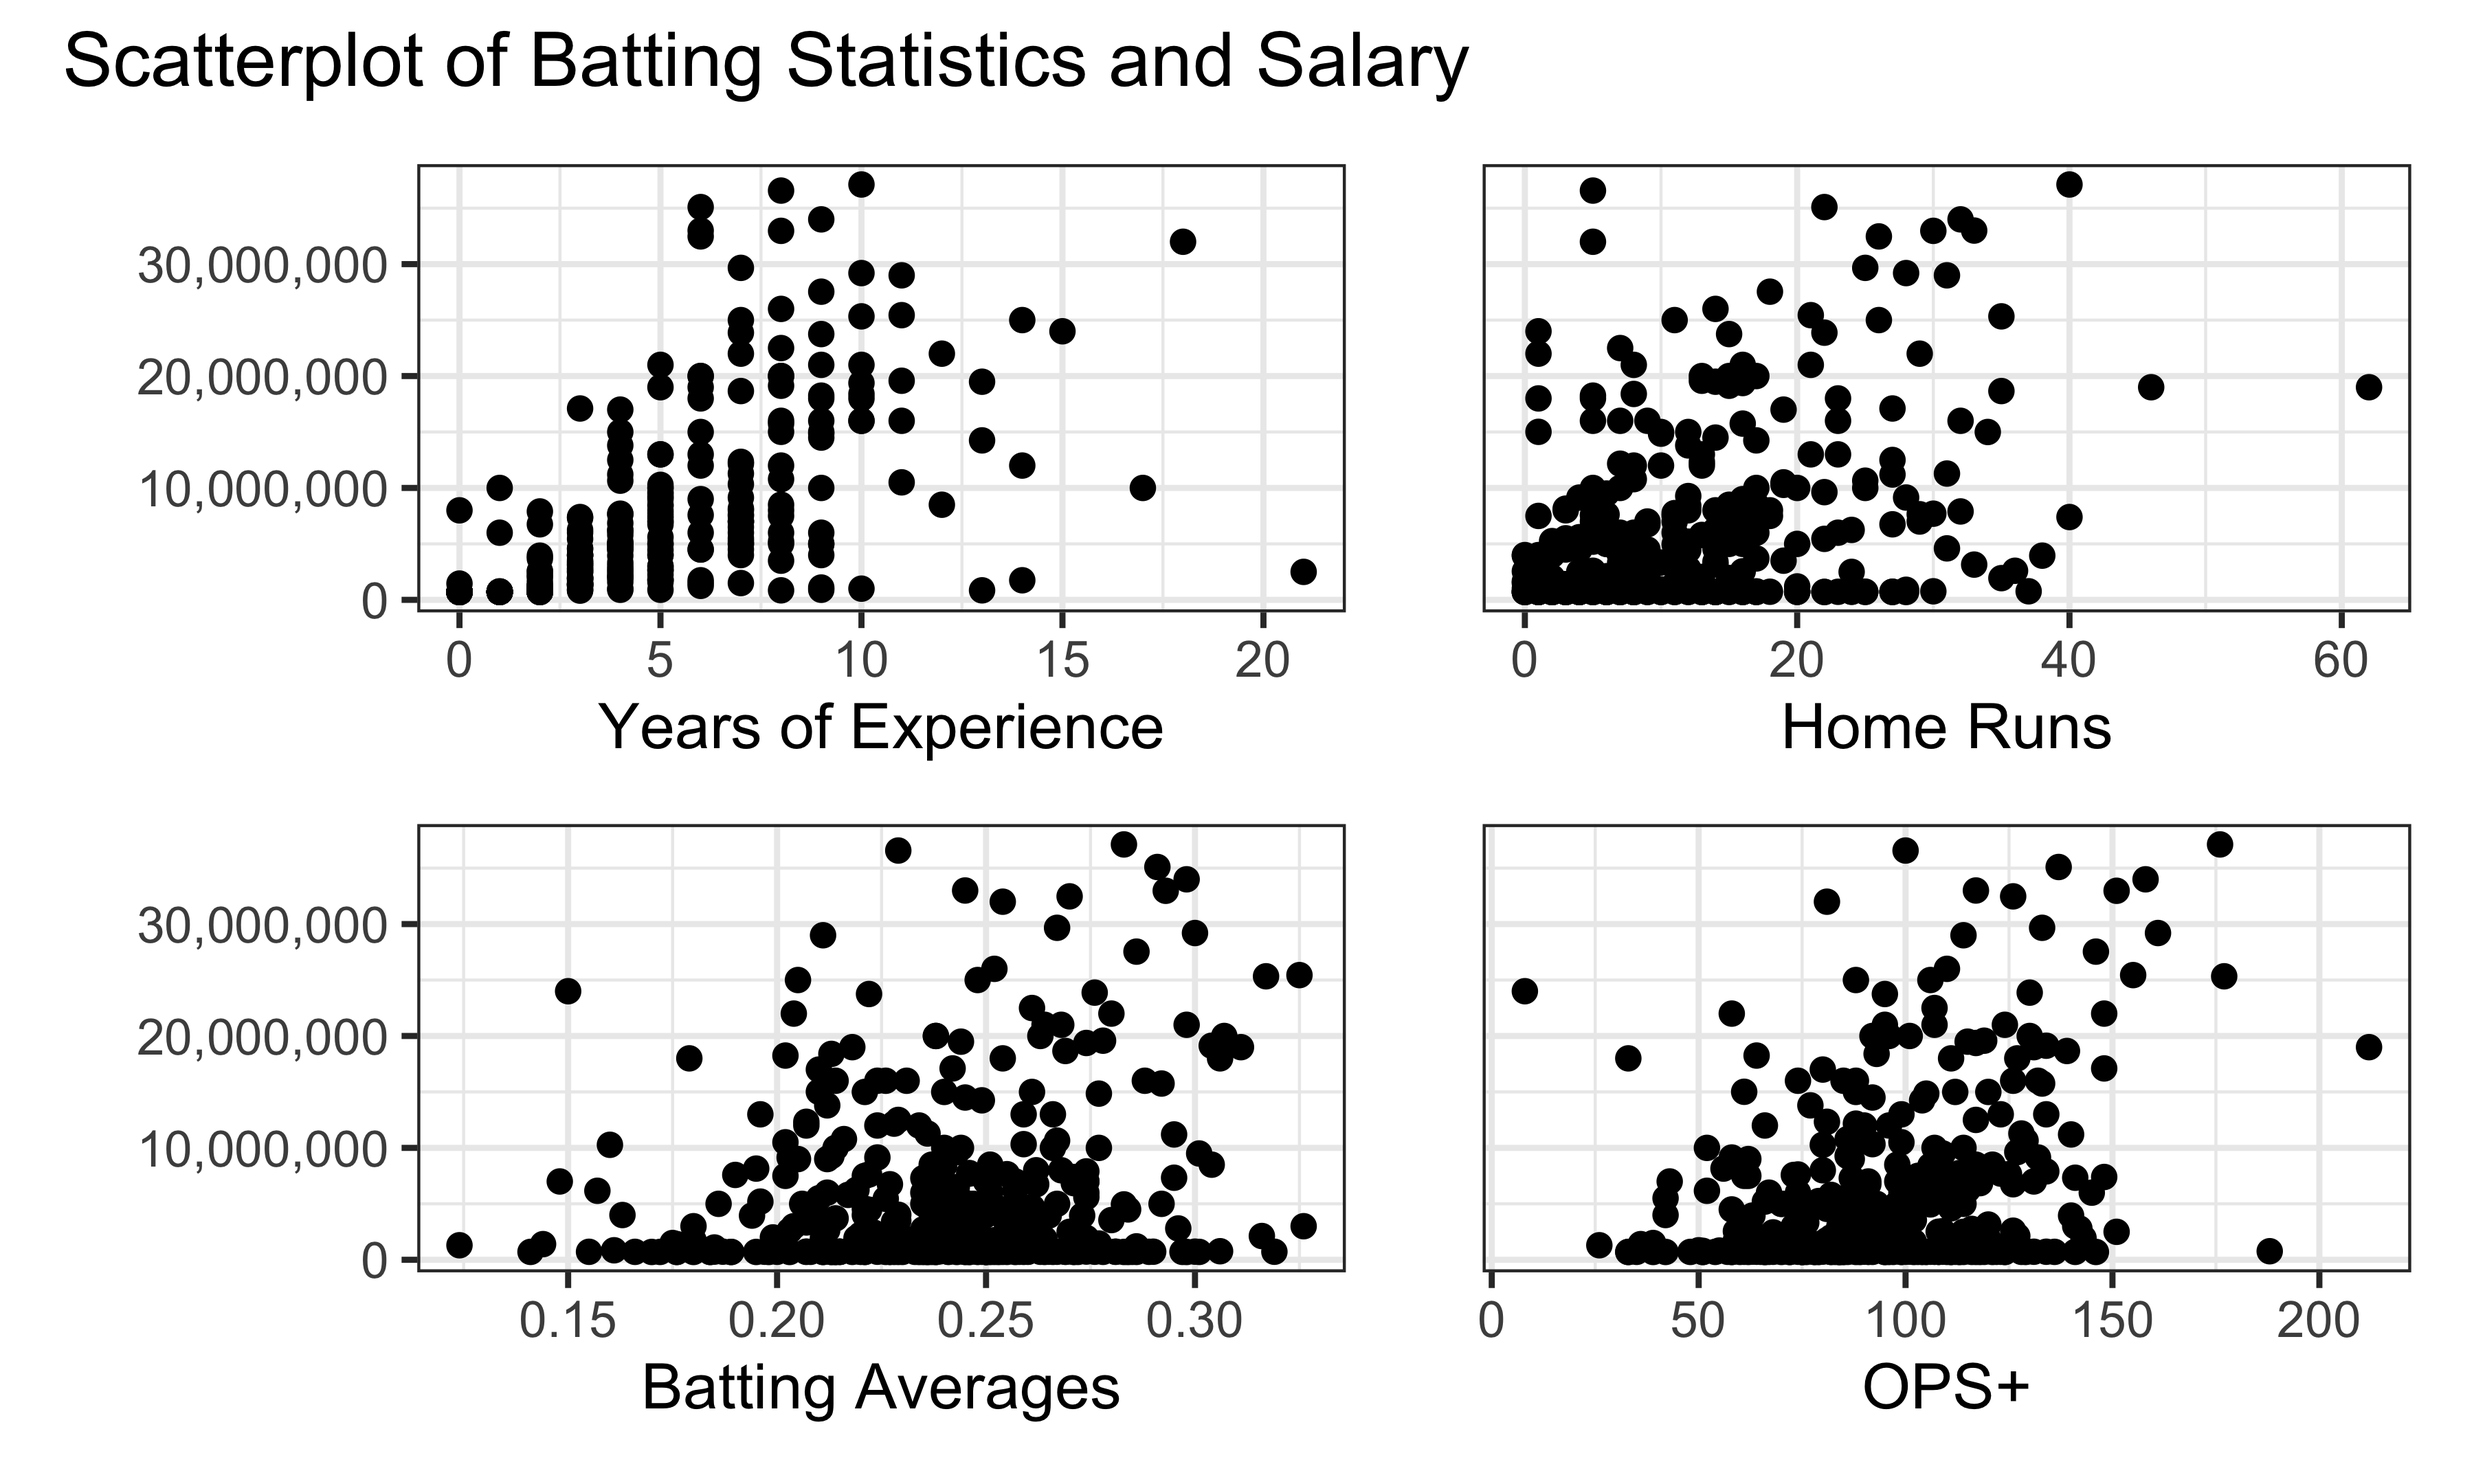
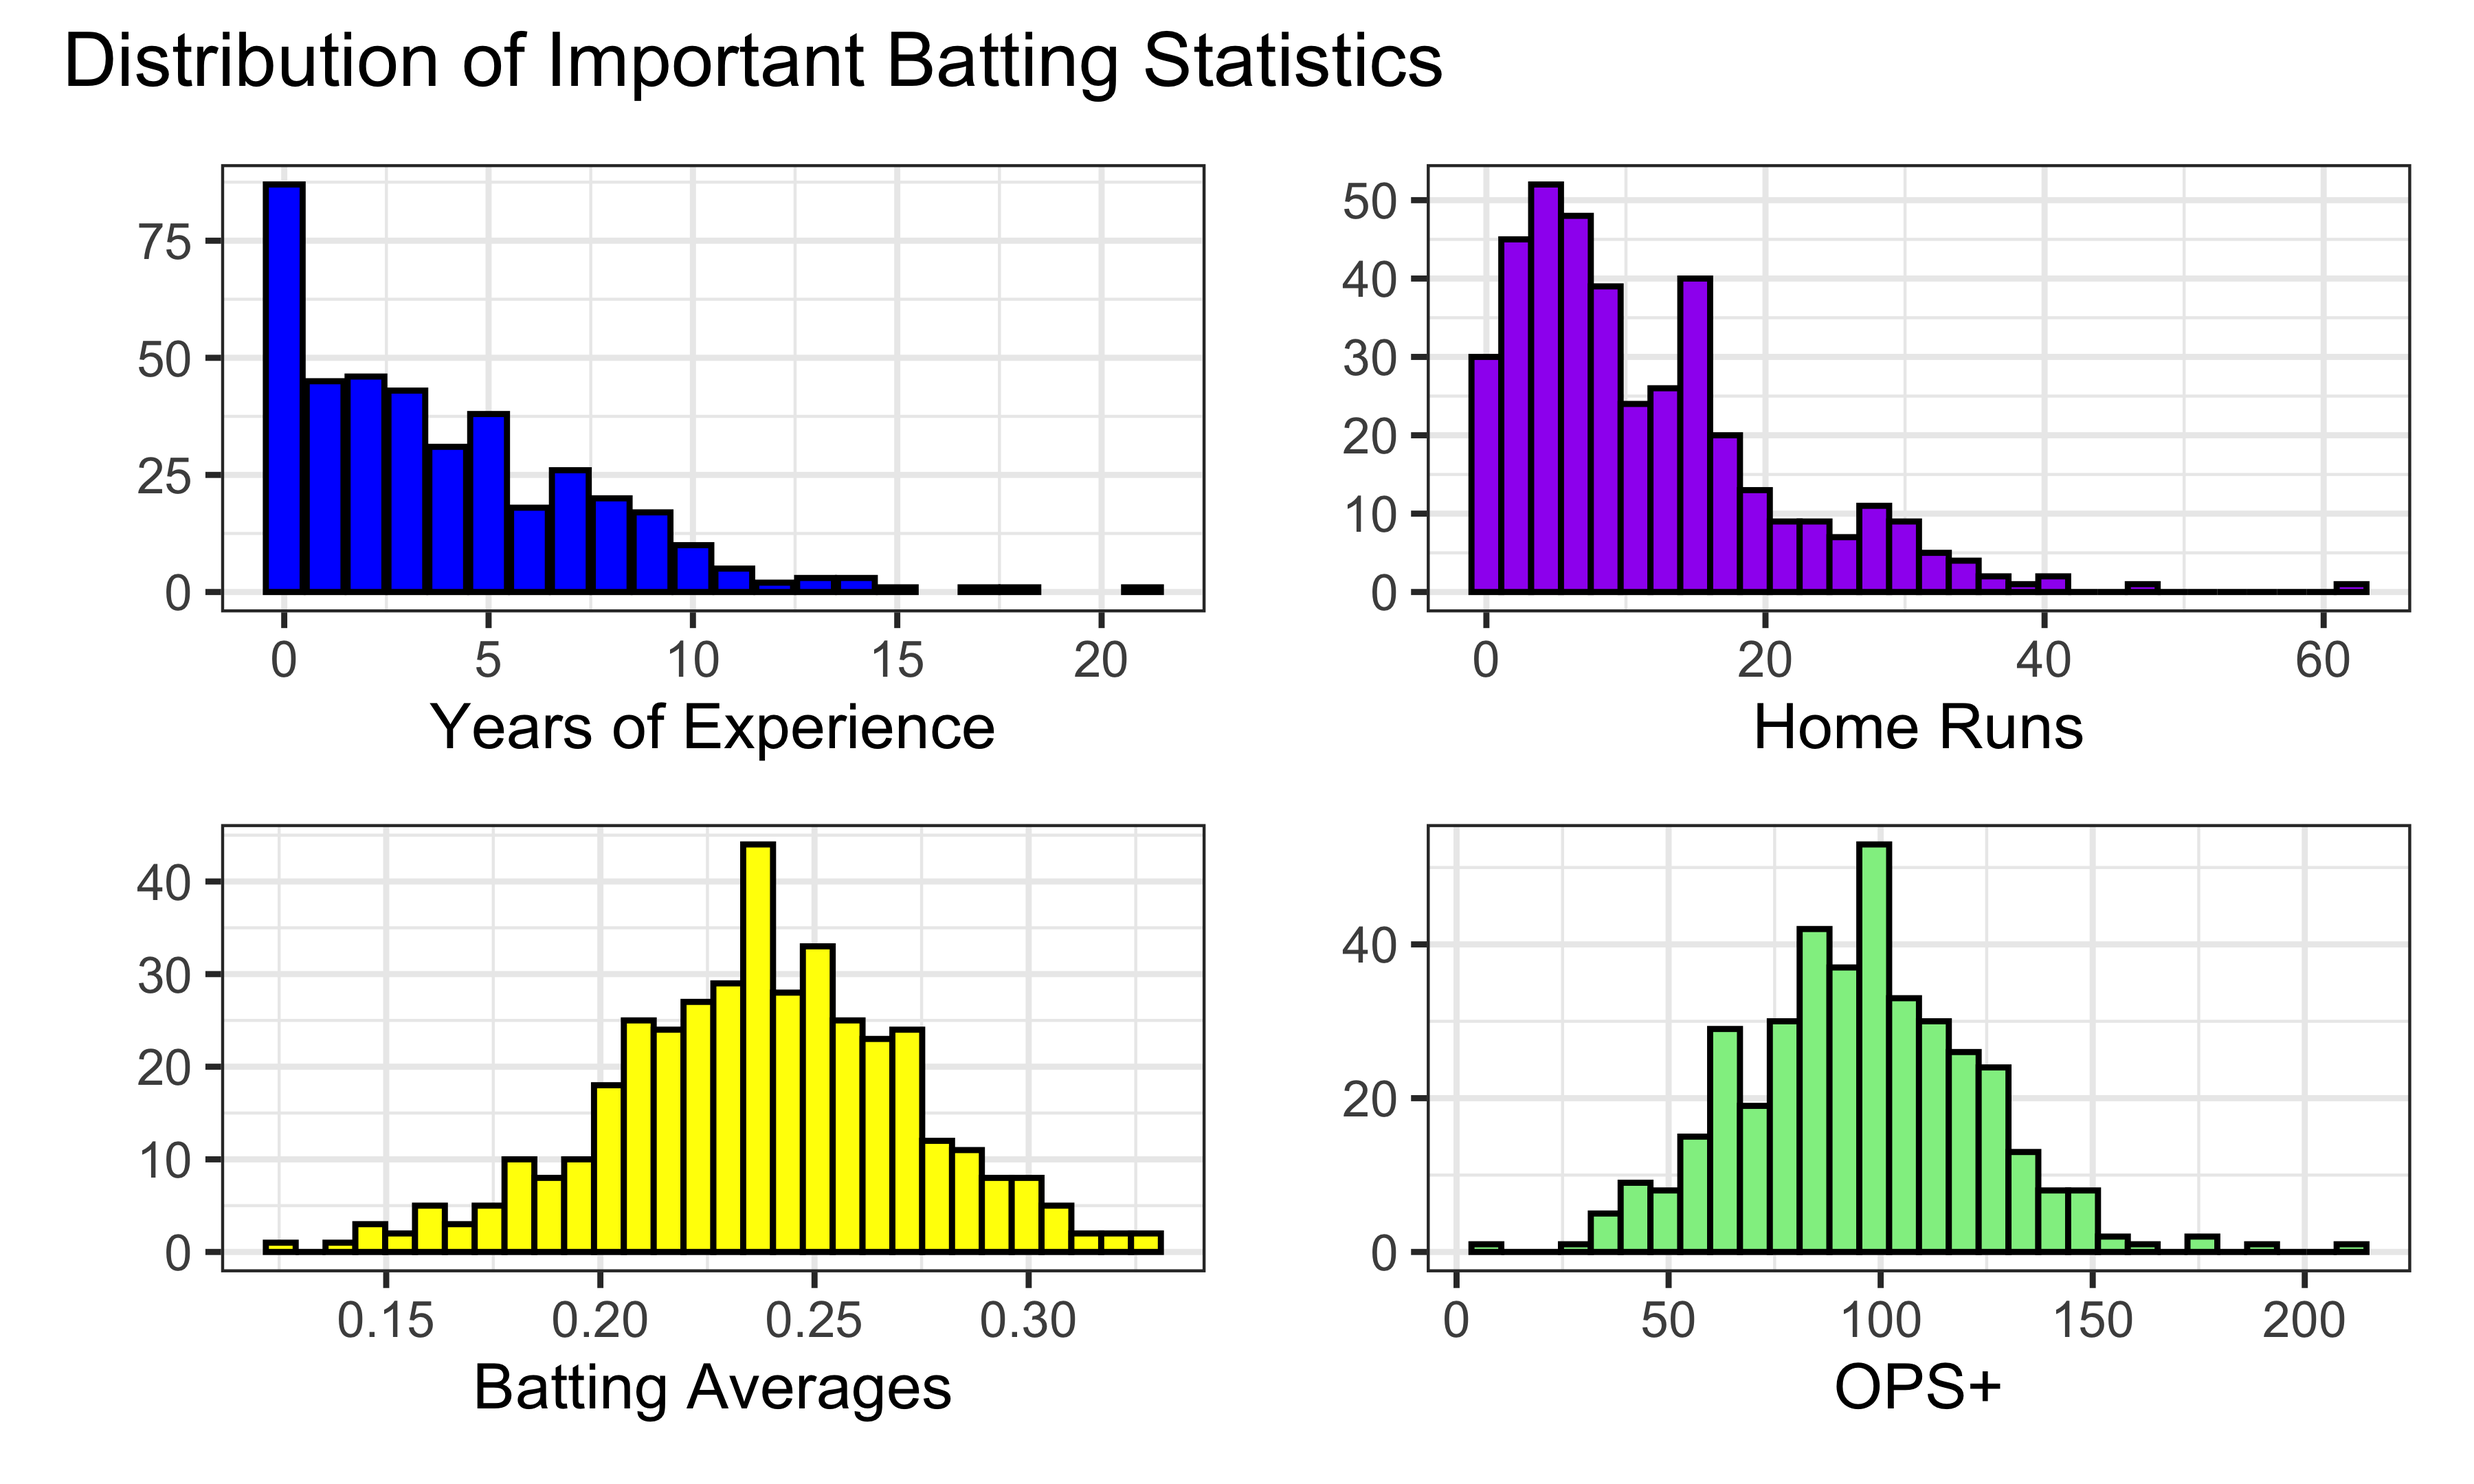
Cleanup and aesthetic changes to report.

Changed region(s): [[0.0622, 0.0931, 0.9644, 0.5273], [0.0622, 0.5583, 0.9644, 0.9616], [0.0311, 0.0, 0.5911, 0.062]]

diff --git a/Final_Report_Draft.html b/Final_Report_Draft.html
@@ -379,9 +379,8 @@ expected to sign within the next week, which is projected to go for at
 least 12 years and $600 million. The skyrocketing salaries don’t just
 apply to the game’s most marquee names; since 2003, the average player
 salary has more than doubled, from $2.37 million to $4.98 million for
-the 2024 season (source: <a
-href="https://www.statista.com/statistics/236213/mean-salaray-of-players-in-majpr-league-baseball/"
-class="uri">https://www.statista.com/statistics/236213/mean-salaray-of-players-in-majpr-league-baseball/</a>).
+the 2024 season (<a
+href="https://www.statista.com/statistics/236213/mean-salaray-of-players-in-majpr-league-baseball/">source</a>).
 As players become more and more expensive and teams face increasingly
 harsh luxury tax penalties for exceeding certain payroll thresholds, MLB
 teams face important decisions on which, if any, free agents to sign to
@@ -400,13 +399,14 @@ ultimately winning the World Series.</p>
 <h1>Related work</h1>
 <p>There has been a heated debate over the use of statistics and
 analytics in the evaluation of player performances and whether the
-decision to pay players can be aided by these methods. Sabermetrics (add
-hyperlink in website) is one of the more popular ways of applying
-statistics to baseball to be an addition to traditional evaluations. The
-famous movie Moneyball (add hyperlink in website) tells the story of the
-Oakland Athletic’s, an underdog using statistics over traditional
-evaluations to gain an edge. One of the hopes of our project is to
-approach some of these same problems from our own perspective.</p>
+decision to pay players can be aided by these methods. <a
+href="https://sabr.org/sabermetrics">Sabermetrics</a> is one of the more
+popular ways of applying statistics to baseball to be an addition to
+traditional evaluations. The famous movie <a
+href="https://www.imdb.com/title/tt1210166/">Moneyball</a> tells the
+story of the Oakland Athletic’s, an underdog using statistics over
+traditional evaluations to gain an edge. One of the hopes of our project
+is to approach some of these same problems from our own perspective.</p>
 </div>
 <div id="initial-questions" class="section level1">
 <h1>Initial questions</h1>
@@ -424,14 +424,16 @@ their 2022 statistics?</p></li>
 </ol>
 <p>After conducting an exploratory data analysis, we adjusted our
 questions into:</p>
+<ol style="list-style-type: decimal">
+<li><p>Can we construct a model from both counting and advanced
+statistics that predicts the salary of a baseball player?</p></li>
+<li><p>What player is on the ‘best’ contract? That is, who is the best
+player in the MLB in terms outperforming their contract? What player is
+on the ‘worst’ contract?</p></li>
+</ol>
 </div>
 <div id="data" class="section level1">
 <h1>Data</h1>
-<div id="data-cleaning-code" class="section level2">
-<h2>Data Cleaning Code</h2>
-<div id="setup" class="section level3">
-<h3>Setup</h3>
-</div>
 <div id="salary-data" class="section level3">
 <h3>Salary Data</h3>
 <pre class="r"><code>salaries = read_excel(
@@ -494,7 +496,6 @@ batting_not_in_salary &lt;- anti_join(batting, salaries, by = &quot;name&quot;)<
 </div>
 <div id="pitching-data" class="section level3">
 <h3>Pitching Data</h3>
-<p>(same data cleaning process as above)</p>
 <pre class="r"><code>pitching = read_delim(&quot;data/2022 MLB Player Stats - Pitching.csv&quot;, delim = &quot;;&quot;,
                      locale = locale(encoding = &quot;latin1&quot;)) |&gt;
   janitor::clean_names() %&gt;%
@@ -531,11 +532,12 @@ salary_not_in_pitching &lt;- anti_join(salaries, pitching, by = &quot;name&quot;
 pitching_not_in_salary &lt;- anti_join(pitching, salaries, by = &quot;name&quot;)</code></pre>
 </div>
 </div>
-</div>
 <div id="exploratory-analysis" class="section level1">
 <h1>Exploratory analysis</h1>
 <p>Our exploratory data analysis can be grouped into three categories:
 salary, batting, and pitching.</p>
+<div id="salary-eda" class="section level3">
+<h3>Salary EDA</h3>
 <p>Player salaries were highly right-skewed. This was expected, as many
 players make the league minimum salary of 700,000. The one position
 group not so heavily right skewed are the Designated Hitters. Similarly,
@@ -614,6 +616,9 @@ salaries |&gt;
                     &quot;ss&quot; = &quot;Shortstop&quot;)) +
   theme_bw()</code></pre>
 <p><img src="Final_Report_Draft_files/figure-html/unnamed-chunk-6-1.png" width="90%" /></p>
+</div>
+<div id="batting-eda" class="section level3">
+<h3>Batting EDA</h3>
 <p>Many of the counting statistics for batting are right skewed, as most
 players are not hitting multiple home runs in the season. Some of the
 advanced statistics such as OPS+ are more normally distributed. An
@@ -638,28 +643,55 @@ merged_batting |&gt;
   select(hr, ba, ops) |&gt;
   GGally::ggpairs()</code></pre>
 <p><img src="Final_Report_Draft_files/figure-html/unnamed-chunk-8-1.png" width="90%" /></p>
+<pre class="r"><code># Distributions for Used Statistics
+yrsCol = merged_batting |&gt;
+  count(service_time_floor) |&gt;
+  ggplot(aes(x = service_time_floor, y=n)) + 
+  geom_col(fill = &#39;blue&#39;, col = &#39;black&#39;) +
+  labs(x=&quot;Years of Experience&quot;,y=&quot;&quot;) +
+  theme_bw()
+hrsHist = merged_batting |&gt;
+  ggplot(aes(x = hr)) + 
+  geom_histogram(fill = &#39;purple&#39;, col = &#39;black&#39;) +
+  labs(x=&quot;Home Runs&quot;,y=&quot;&quot;) +
+  theme_bw()
+basHist = merged_batting |&gt;
+  ggplot(aes(x = ba)) + 
+  geom_histogram(fill = &#39;yellow&#39;, col = &#39;black&#39;) +
+  labs(x=&quot;Batting Averages&quot;,y=&quot;&quot;) +
+  theme_bw()
+opsHist = merged_batting |&gt;
+  ggplot(aes(x = ops_2)) + 
+  geom_histogram(fill = &#39;lightgreen&#39;, col = &#39;black&#39;) +
+  labs(x=&quot;OPS+&quot;,y=&quot;&quot;) +
+  theme_bw()
+
+dist_patch = (yrsCol+hrsHist)/(basHist+opsHist)
+
+dist_patch + plot_annotation(title = &quot;Distribution of Important Batting Statistics&quot;)</code></pre>
+<p><img src="Final_Report_Draft_files/figure-html/unnamed-chunk-9-1.png" width="90%" /></p>
 <pre class="r"><code># Scatter for Used Statistics
 yrs = merged_batting |&gt;
   ggplot(aes(x = service_time_floor, y = salary_2022)) + 
-  geom_point() +
+  geom_point(col = &#39;blue&#39;) +
   labs(x=&quot;Years of Experience&quot;,y=&quot;&quot;) +
   scale_y_continuous(labels = label_comma()) +
   theme_bw()
 hrs = merged_batting |&gt;
   ggplot(aes(x = hr, y = salary_2022)) + 
-  geom_point() +
+  geom_point(col = &#39;purple&#39;) +
   guides(y=&quot;none&quot;) +
   labs(x=&quot;Home Runs&quot;,y=&quot;&quot;) +
   theme_bw()
 bas = merged_batting |&gt;
   ggplot(aes(x = ba, y = salary_2022)) + 
-  geom_point() +
+  geom_point(col = &#39;yellow&#39;) +
   labs(x=&quot;Batting Averages&quot;,y=&quot;&quot;) +
   scale_y_continuous(labels = label_comma()) +
   theme_bw()
 ops = merged_batting |&gt;
   ggplot(aes(x = ops_2, y = salary_2022)) + 
-  geom_point() +
+  geom_point(col = &#39;lightgreen&#39;) +
   guides(y=&quot;none&quot;) +
   labs(x=&quot;OPS+&quot;,y=&quot;&quot;) +
   theme_bw()
@@ -667,36 +699,10 @@ ops = merged_batting |&gt;
 scatter_patch = (yrs+hrs)/(bas+ops)
 
 scatter_patch + plot_annotation(title = &quot;Scatterplot of Batting Statistics and Salary&quot;)</code></pre>
-<p><img src="Final_Report_Draft_files/figure-html/unnamed-chunk-9-1.png" width="90%" /></p>
-<pre class="r"><code># Distributions for Used Statistics
-yrsCol = merged_batting |&gt;
-  count(service_time_floor) |&gt;
-  ggplot(aes(x = service_time_floor, y=n)) + 
-  geom_col() +
-  labs(x=&quot;Years of Experience&quot;,y=&quot;&quot;) +
-  theme_bw()
-hrsHist = merged_batting |&gt;
-  ggplot(aes(x = hr)) + 
-  geom_histogram() +
-  labs(x=&quot;Home Runs&quot;,y=&quot;&quot;) +
-  theme_bw()
-basHist = merged_batting |&gt;
-  ggplot(aes(x = ba)) + 
-  geom_histogram() +
-  labs(x=&quot;Batting Averages&quot;,y=&quot;&quot;) +
-  theme_bw()
-opsHist = merged_batting |&gt;
-  ggplot(aes(x = ops_2)) + 
-  geom_histogram() +
-  labs(x=&quot;OPS+&quot;,y=&quot;&quot;) +
-  theme_bw()
-
-dist_patch = (yrsCol+hrsHist)/(basHist+opsHist)
-
-dist_patch + plot_annotation(title = &quot;Distribution of Important Batting Statistics&quot;)</code></pre>
 <p><img src="Final_Report_Draft_files/figure-html/unnamed-chunk-10-1.png" width="90%" /></p>
-<div id="pitching-eda" class="section level2">
-<h2>Pitching EDA</h2>
+</div>
+<div id="pitching-eda" class="section level3">
+<h3>Pitching EDA</h3>
 <pre class="r"><code>ip_plot = merged_pitching |&gt; 
   ggplot(aes(x = ip_total)) + 
   geom_histogram(binwidth = 5, fill = &quot;red&quot;, col = &quot;black&quot;) +
